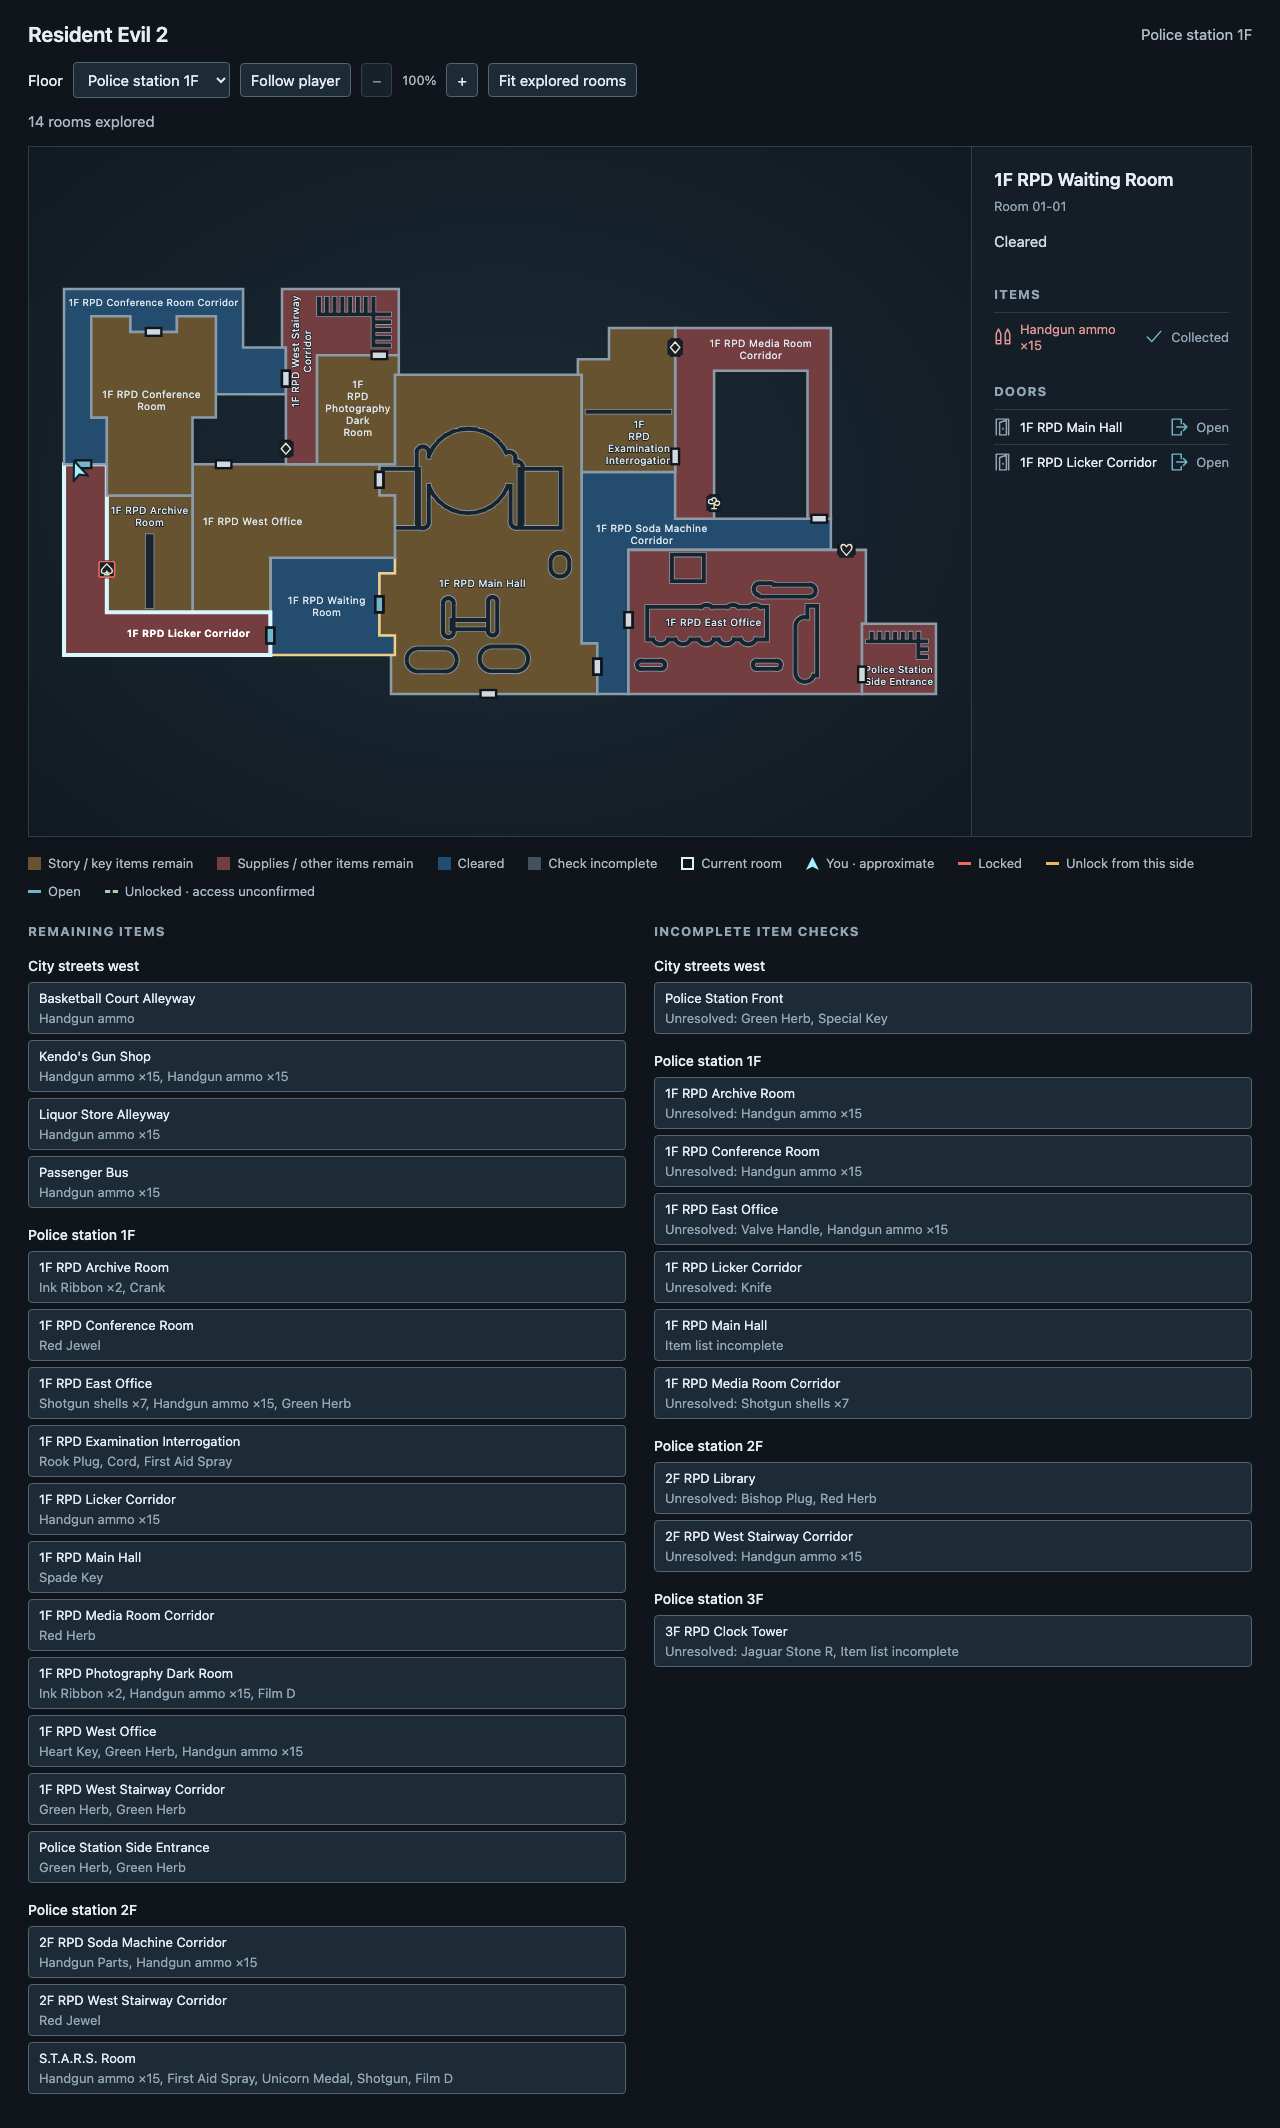
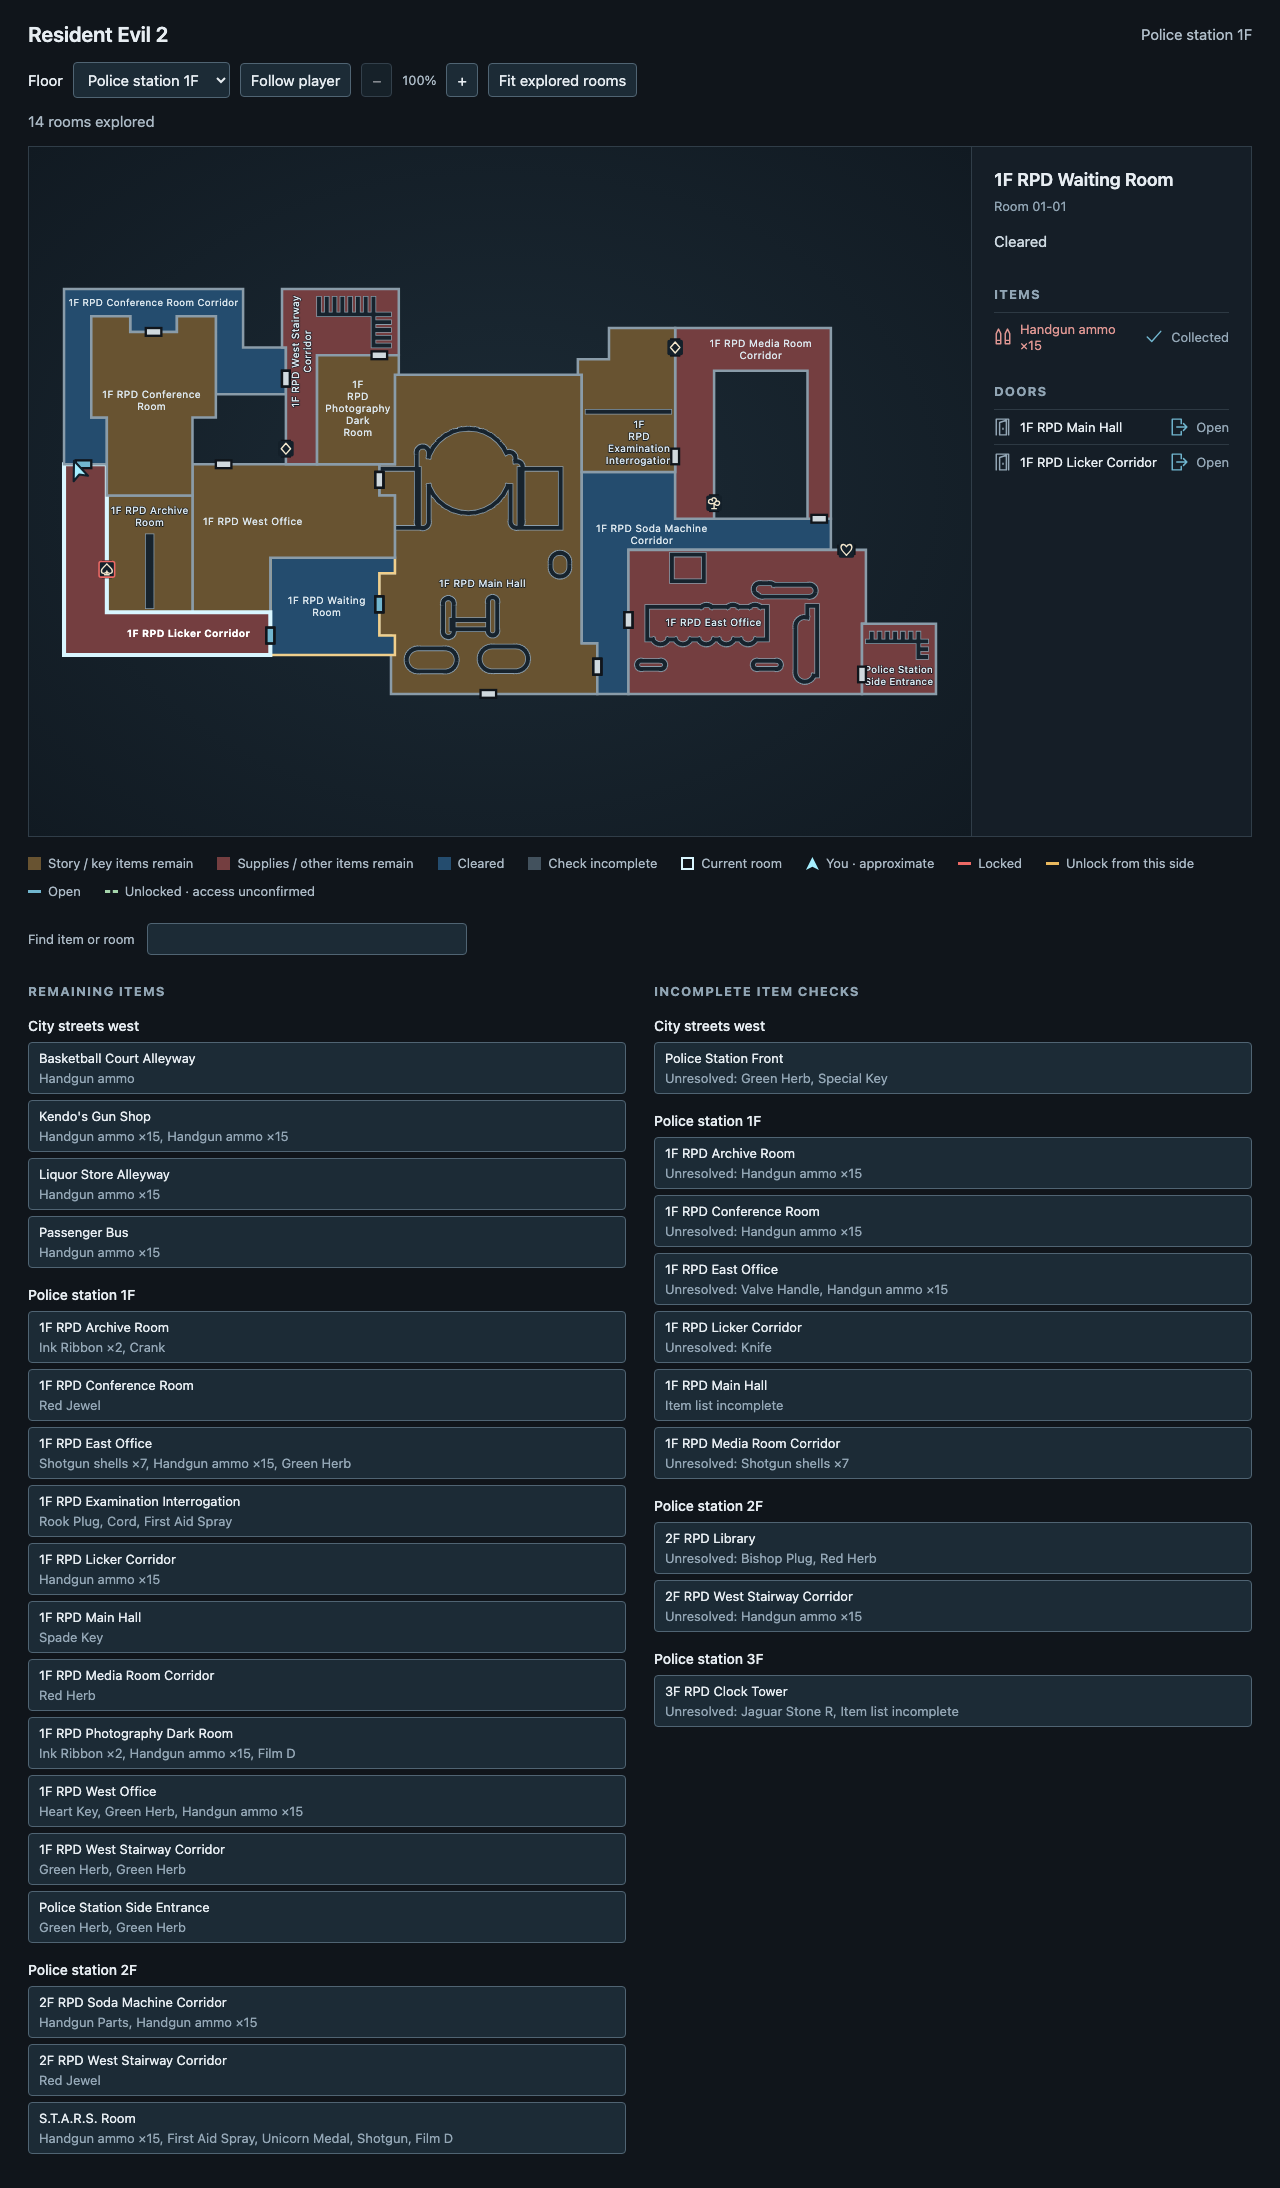
feat(ui): search explored room item lists
Author: gpt-6.1-sol

diff --git a/src/ui/map_view.py b/src/ui/map_view.py
@@ -190,8 +190,8 @@ h1 { margin:0; font-size:21px; font-weight:600; }
 #place { color:#b0beca; }
 #map-controls { padding:0 28px 14px; display:flex; align-items:center; flex-wrap:wrap; gap:10px; }
 #zoom-controls { display:inline-flex; align-items:center; gap:10px; }
-select,button { font:inherit; color:inherit; background:#1c2b36; border:1px solid #506473; border-radius:4px; padding:7px 10px; }
-select:disabled,button:disabled { opacity:.55; }
+select,button,input { font:inherit; color:inherit; background:#1c2b36; border:1px solid #506473; border-radius:4px; padding:7px 10px; }
+select:disabled,button:disabled,input:disabled { opacity:.55; }
 #current-room[aria-pressed="true"] { border-color:#71b6cf; background:#244c6e; }
 #status { padding:0 28px 14px; min-height:20px; color:#abb9c5; }
 main { display:grid; grid-template-columns:minmax(0,1fr) 280px; margin:0 28px; border:1px solid #303d48; background:#151e27; }
@@ -267,6 +267,8 @@ li > span:last-child { color:#94a7b6; text-align:right; }
 .key.unlocked-key { height:0; border-top:3px dashed #a5d5ac; }
 #note { color:#91a5b4; font-size:13px; line-height:1.5; }
 #overview { display:grid; grid-template-columns:1fr 1fr; gap:28px; margin:0 28px 28px; }
+#item-search-label { grid-column:1/-1; display:flex; flex-wrap:wrap; align-items:center; gap:8px 12px; font-size:13px; color:#abb9c5; }
+#item-search { box-sizing:border-box; width:min(100%,320px); }
 #overview h2 { margin:0 0 12px; }
 #overview h3 { margin:18px 0 8px; font-size:14px; font-weight:500; }
 #overview p { margin:0; font-size:13px; color:#91a5b4; }
@@ -299,6 +301,7 @@ li > span:last-child { color:#94a7b6; text-align:right; }
 <span><i class="key door-key unlocked-key"></i>Unlocked · access unconfirmed</span>
 </div>
 <section id="overview" aria-label="Explored room items">
+<label id="item-search-label" for="item-search">Find item or room<input id="item-search" type="search" autocomplete="off" aria-controls="remaining-items incomplete-checks" disabled></label>
 <section aria-labelledby="remaining-heading"><h2 id="remaining-heading">Remaining items</h2><p id="remaining-status">Waiting for game.</p><div id="remaining-items"></div></section>
 <section aria-labelledby="checks-heading"><h2 id="checks-heading">Incomplete item checks</h2><p id="checks-status">Waiting for game.</p><div id="incomplete-checks"></div></section>
 </section>
@@ -320,10 +323,20 @@ let viewport = {mode:'empty'};
 let pan = {mode:'idle'};
 let suppressMapClick = false;
 const floorSelect = document.getElementById('floor');
+const itemSearch = document.getElementById('item-search');
 const currentRoomButton = document.getElementById('current-room');
 const zoomIn = document.getElementById('zoom-in');
 const zoomOut = document.getElementById('zoom-out');
 const fitRooms = document.getElementById('fit-rooms');
+itemSearch.addEventListener('input',()=>{if(lastState!==null && lastState.status==='display') updateOverview(lastState);});
+itemSearch.addEventListener('keydown',event=>{
+  if(event.key==='Escape' && itemSearch.value!=='') {
+    event.preventDefault();
+    itemSearch.value='';
+    // Keyboard clearing follows the same update path as typing or the native clear control.
+    itemSearch.dispatchEvent(new Event('input'));
+  }
+});
 floorSelect.addEventListener('change',()=>{
   floorView={mode:'browse',area:floorSelect.value};
   selected=null;
@@ -551,6 +564,7 @@ function draw(state) {
   lastState=state;
   if(state.status!=='display') {
     floorSelect.disabled=true;
+    itemSearch.disabled=true;
     endPan();
     applyViewport();
     status.textContent=state.error || 'Waiting for a readable game.';
@@ -597,6 +611,7 @@ function draw(state) {
   }
   floorSelect.value=displayedArea;
   floorSelect.disabled=false;
+  itemSearch.disabled=false;
   svg.replaceChildren();
   const plan=areas.get(displayedArea);
   if(selectedArea!==displayedArea) {selected=null;selectedArea=displayedArea;}
@@ -807,10 +822,13 @@ function draw(state) {
     detail.append(listSymbol(symbol,status==='unresolved'?'neutral':status),text);row.append(name,detail);doors.append(row);
   }
   document.getElementById('note').textContent=[visit.reason, visit.door_reason].filter(Boolean).join(' ');
+  updateOverview(state);
+}
+function updateOverview(state) {
   // Camera outlines share a logical room's items. Prefer its current outline
   // for navigation, then retain one observed outline for each departed room.
   const observed=new Map([[state.current_detail.room,{area:state.area,visit:state.current_detail}]]);
-  for(const area of floorIds) {
+  for(const area of Object.keys(state.explored_areas).sort()) {
     for(const visit of state.explored_areas[area]) {
       if(!observed.has(visit.room)) observed.set(visit.room,{area,visit});
     }
@@ -829,11 +847,16 @@ function draw(state) {
       ...(!visit.items_complete ? ['Item list incomplete'] : []),
     ]});
   }
-  const key=JSON.stringify([remaining,checks]);
+  const query=itemSearch.value.trim().toLowerCase();
+  const key=JSON.stringify([query,remaining,checks]);
   // Keep focused overview links intact during unchanged game polls.
   if(key!==overviewKey) {
     overviewKey=key;
     function showEntries(containerId,messageId,entries,emptyMessage) {
+      entries=entries.filter(entry=>{
+        const floor=areas.has(entry.area) ? areas.get(entry.area).name : 'Room '+entry.room;
+        return [entry.name,floor,...entry.labels].join(' ').toLowerCase().includes(query);
+      });
       const container=document.getElementById(containerId);
       container.replaceChildren();
       const message=document.getElementById(messageId);
@@ -864,8 +887,8 @@ function draw(state) {
         row.append(link);groups.get(entry.area).append(row);
       }
     }
-    showEntries('remaining-items','remaining-status',remaining,'No known remaining items.');
-    showEntries('incomplete-checks','checks-status',checks,'No incomplete item checks.');
+    showEntries('remaining-items','remaining-status',remaining,query ? 'No matching remaining items.' : 'No known remaining items.');
+    showEntries('incomplete-checks','checks-status',checks,query ? 'No matching incomplete item checks.' : 'No incomplete item checks.');
   }
 }
 let sceneKey='';

diff --git a/docs/testing/re2.md b/docs/testing/re2.md
@@ -22,6 +22,14 @@ The shared browser now serializes state requests and keeps a two-second cancella
 
 Direct review by `gpt-6.1-sol` checks timer cleanup on success/failure, cancellation through JSON parsing, serial retry scheduling, clear-on-failure behavior, existing viewport/selection semantics, bounded diagnostics and shared RE1 behavior. External review providers remain disabled; no external endorsement or new emulator validation is claimed. See [Tracker diagnostics](diagnostics.md) for recovery behavior and the focused command.
 
+## Search in explored-room item lists
+
+2026-10-29. Find item or room filters the existing explored-room overview. The shared overview renderer handles both search input and fresh game publications, preserving the map's SVG nodes during typing. Search keeps known remaining items separate from unresolved checks and cannot introduce catalog rooms absent from the playthrough's visits.
+
+The RE2 browser regression checks case/whitespace handling, unresolved-only matches, empty results, Escape clearing and input focus, result navigation, quantity changes and rewind, unvisited-room isolation, manual view/player-node stability and query retention across interruption/recovery. The 334 map/quantity/RE2 Python checks, shared RE1 browser regression and stalled-refresh regression pass. Five retained-capture fixtures also pass search/clear/navigation checks at desktop `1280x1060` and mobile `390x844`, with unchanged publications and no overflow or page errors. Private renders and checks are under `/tmp/re-map-item-search-20261029.e3q30fn1/`; the README screenshot is refreshed from its pre-collection tracker render.
+
+Direct review by `gpt-6.1-sol` checks explored-only matching, consistent remaining/unknown grouping, text-safe filtering, current-state refreshes, shared rendering, keyboard clearing/focus, disabled behavior during interruption and desktop/mobile layout. No new emulator test or item-presence rule is claimed. The configured external review providers remain disabled.
+
 ## DualShock profiles
 
 The active targets are USA Dual Shock Ver. Disc 1, SLUS-00748, Leon A, and Disc 2, SLUS-00756, Claire B, Original/Normal in Casual/Softcore. Use `profiles/re2_leon_a_slus00748.json` or `profiles/re2_claire_b_slus00756.json`; their default histories are separate from each other and the original-release profiles. [RE2-DS-001](../research/re2/dualshock.md#re2-ds-001-leon-a-dualshock-revision-port) records Leon's exact identity, generation, native observations and limitations. [RE2-DS-002](../research/re2/dualshock.md#re2-ds-002-claire-b-dualshock-revision-port) records the corresponding Claire checks. Run the focused command below with `tests/test_visit_history.py tests/test_logging.py` for revision isolation and runner/history checks. The original-release coverage below remains historical evidence for its named revisions.

diff --git a/docs/re2.md b/docs/re2.md
@@ -22,6 +22,8 @@ Items stay in one list, with symbols alongside their names and status text. Veri
 
 [RE2-DS-003](research/re2/dualshock.md#re2-ds-003-vibration-writes-preserve-item-context) restores source-proven item presence and one selected identity in the explored Media Room Corridor. The identity's presence remains Unknown. Main Hall, West Office and East Office retain their unresolved checks; this offline correction adds no DualShock gameplay confirmation.
 
+Find item or room filters Remaining items and Incomplete item checks across explored floors. It matches room names, floor names and the displayed item summaries without changing map reveal or room completion. Search ignores case and leading/trailing spaces. Escape clears the field. Live updates and connection recovery retain the query.
+
 Uniquely matched doorways appear once on the shared wall. Selecting a room shows that side's access and key state. [RE2-MAP-004](research/re2.md#re2-map-004-one-marker-for-a-shared-doorway) records the shop correction and pairing limits.
 
 Freshly confirmed unlocks also show a green open padlock. Its frame stays dashed while access is unconfirmed, red while the door is inactive and cyan while open. Departed doors never become Open from visits or earlier passage alone. Ambiguous creator/side bindings keep unlock knowledge Unknown. [RE2-DOOR-005](research/re2/dualshock.md#re2-door-005-display-fresh-unlock-knowledge-separately-from-access) records the model and reversal checks.

diff --git a/README.md b/README.md
@@ -47,6 +47,8 @@ Use the mouse wheel or **+ / −** buttons to zoom, and drag the map to move it.
 
 Use **Remaining items** to find pickups in explored rooms, and click a room to open it on the map. **Incomplete item checks** names unresolved items and identifies incomplete item lists, with links to their rooms.
 
+Use **Find item or room** to filter both lists across explored floors. Press Escape in the search field to clear it.
+
 Explored rooms are saved automatically and stay revealed after restarts or earlier savestate loads. Items and doors update to match the loaded game.
 
 For a new playthrough, run `python3 tools/track.py --map --new-playthrough`. Use `--history-file <path>` to keep another playthrough separate.
@@ -69,4 +71,4 @@ python3 tools/track.py --profile profiles/re2_claire_b_slus00756.json --map
 
 Each revision and scenario has a separate exploration history. Keep RetroAchievements in Casual/Softcore mode when using the tracker and savestates. The [RE2 guide](docs/re2.md) lists the exact disc identities and validation limits.
 
-![RE2 explored rooms with pickup quantities and named unresolved item checks](docs/images/re2-map.png)
+![RE2 explored rooms with pickup quantities and searchable remaining items and unresolved checks](docs/images/re2-map.png)
